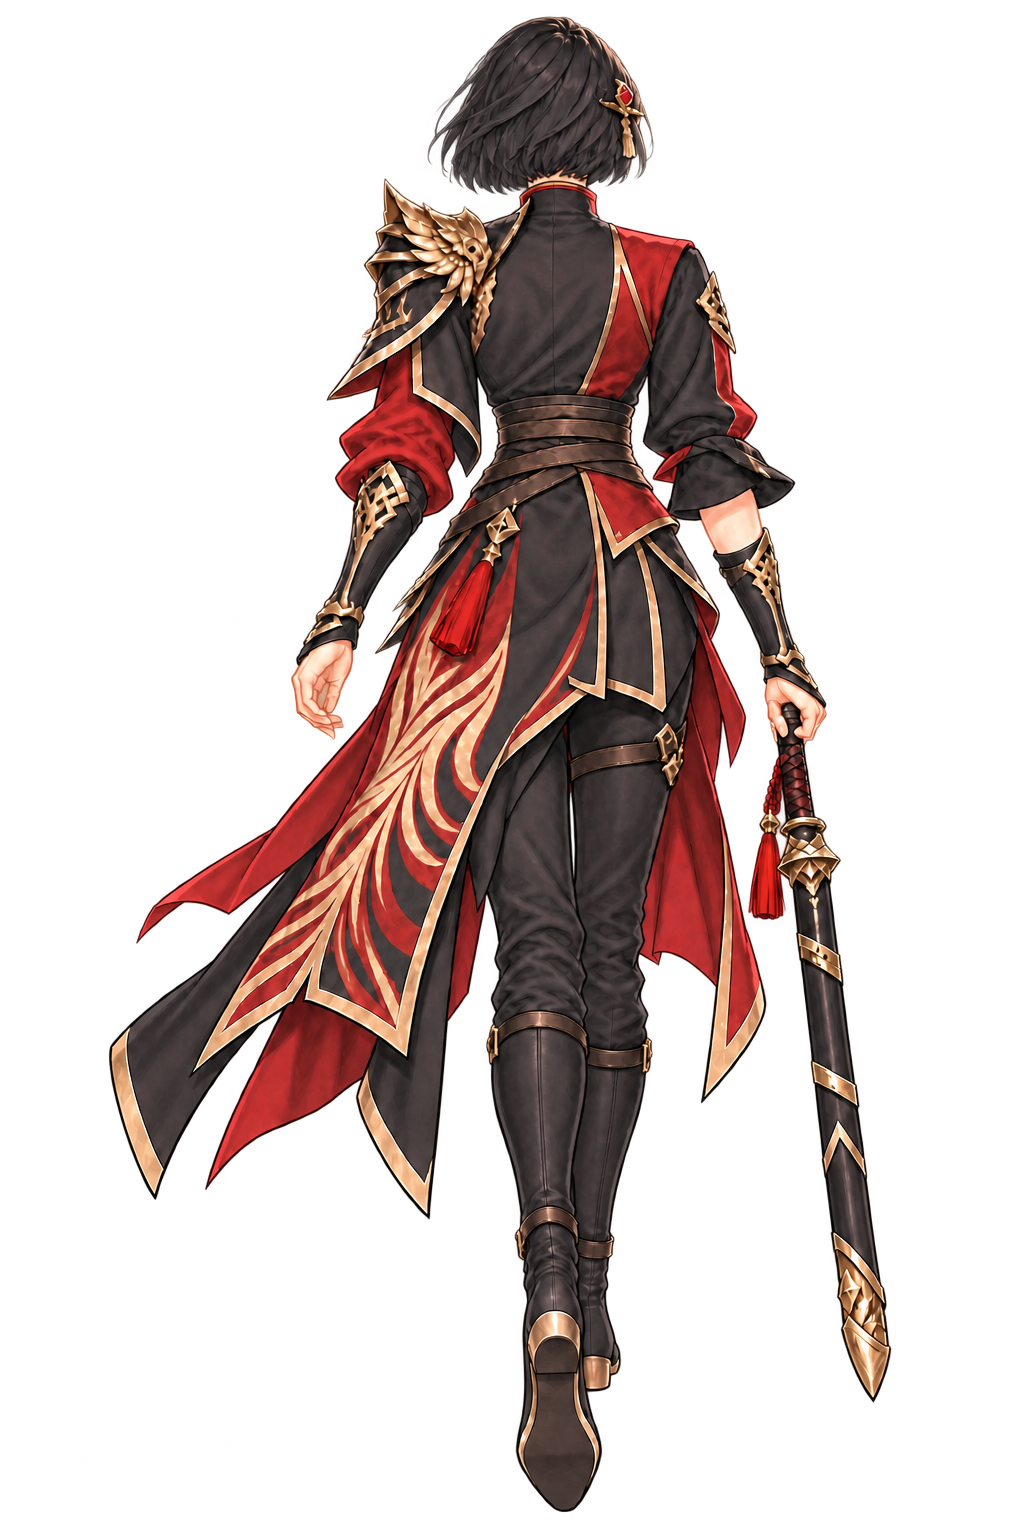
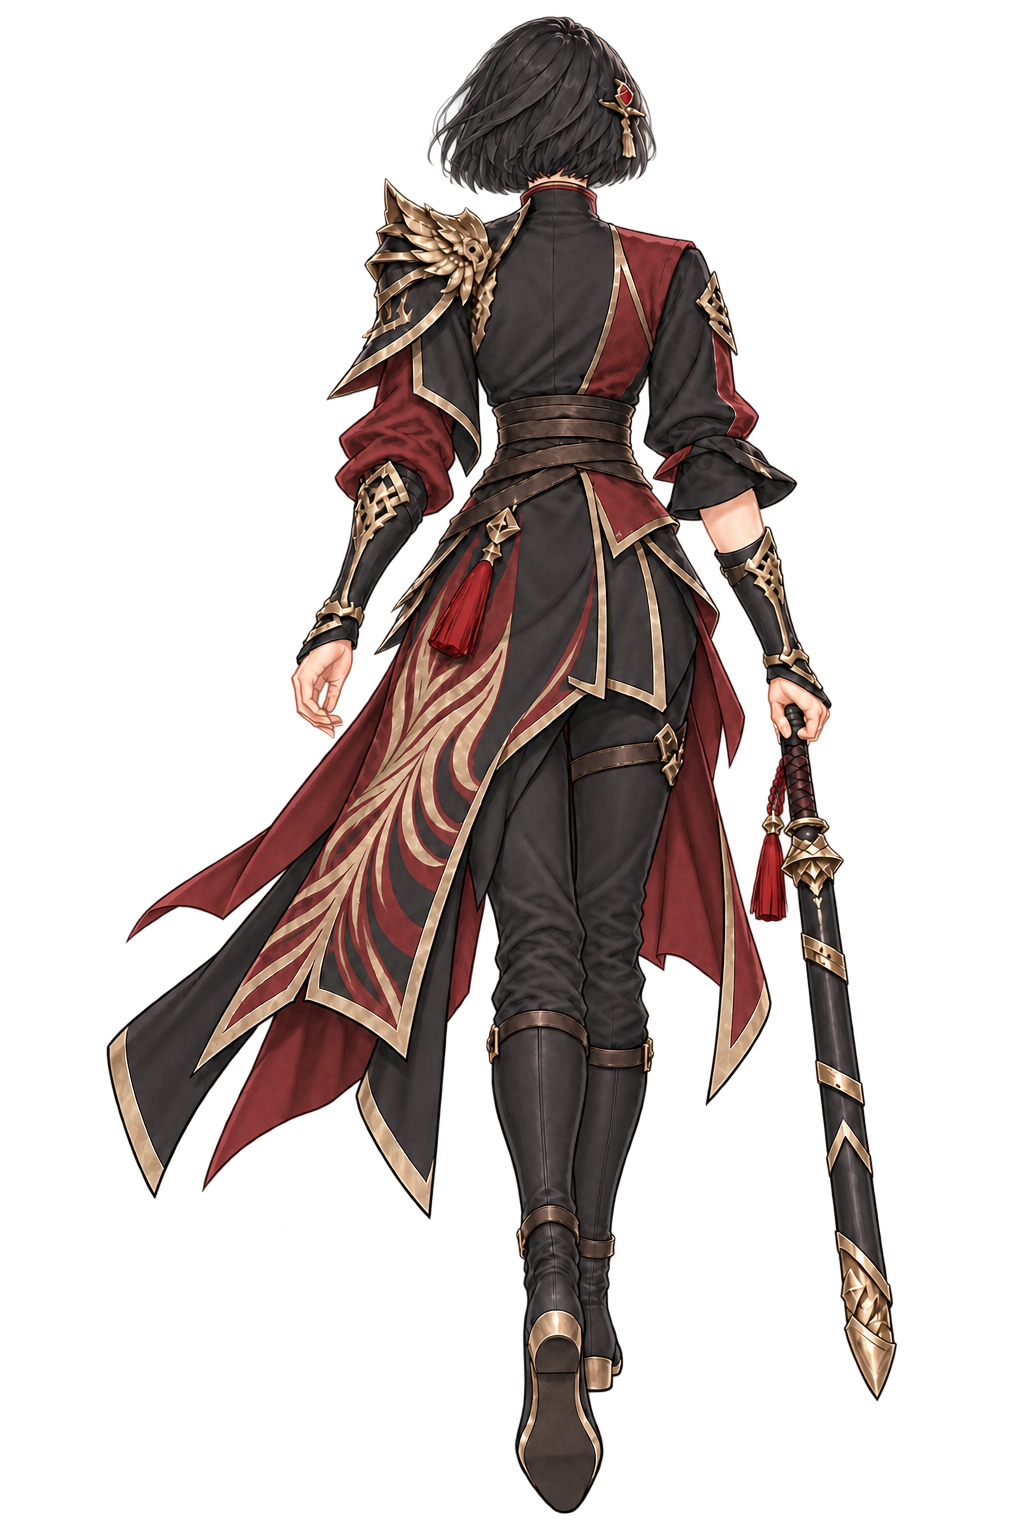
art: adopt reviewed female02 patrol back v4

diff --git a/assets/inbox/PLAYER-PATROL-SAMPLE-20261025/SAMPLE.md b/assets/inbox/PLAYER-PATROL-SAMPLE-20261025/SAMPLE.md
@@ -23,3 +23,5 @@ Status: male01 human-approved 2026-10-25 22:40 Asia/Taipei; remaining seven pair
 背面v2獨審：先前阻塞解除，可交人工審樣，非正式採用通過。左右衣襬/劍/羽肩一致，後腰後靴合理，正背同角色、雙腳完整、84×126可辨。人工仍須確認細長身形在巡怪畫面的比例，以及步態強度；未驗runtime/動畫/點擊。Status: INDEPENDENT_REVIEW_READY_FOR_HUMAN_SAMPLE_APPROVAL.
 
 全批素材段完成：16張1024×1536 RGBA母圖與lossless WebP精確一致，84×126全8對照獨審通過候選。男03/04後靴v2、女02後靴/透明v3為canonical，拒件留於rejected-*不可導入。女02背略較亮/飽和，人工審樣注意。只有男01已有人審批准，其餘7位候選待呈現；未驗正式接入/互動/實景/部署/真機效能。精確新mapping、16新hash檔名、舊16保留及共享manifest序列見runtime-handoff-plan.json。新16WebP合計20,192,630bytes（約19.3MiB），接線階段須驗載入/快取/手機，不擅自改有損或尺寸。
+
+2026-10-28：使用者確認其餘六位，並採用女02背v4；八位均已人審。v4母圖/WebP hash及舊v3備份詳見female02-v4-adoption.json。16張無損WebP合計20,168,232 bytes；正式巡怪接線與共檔協調仍待辦。
